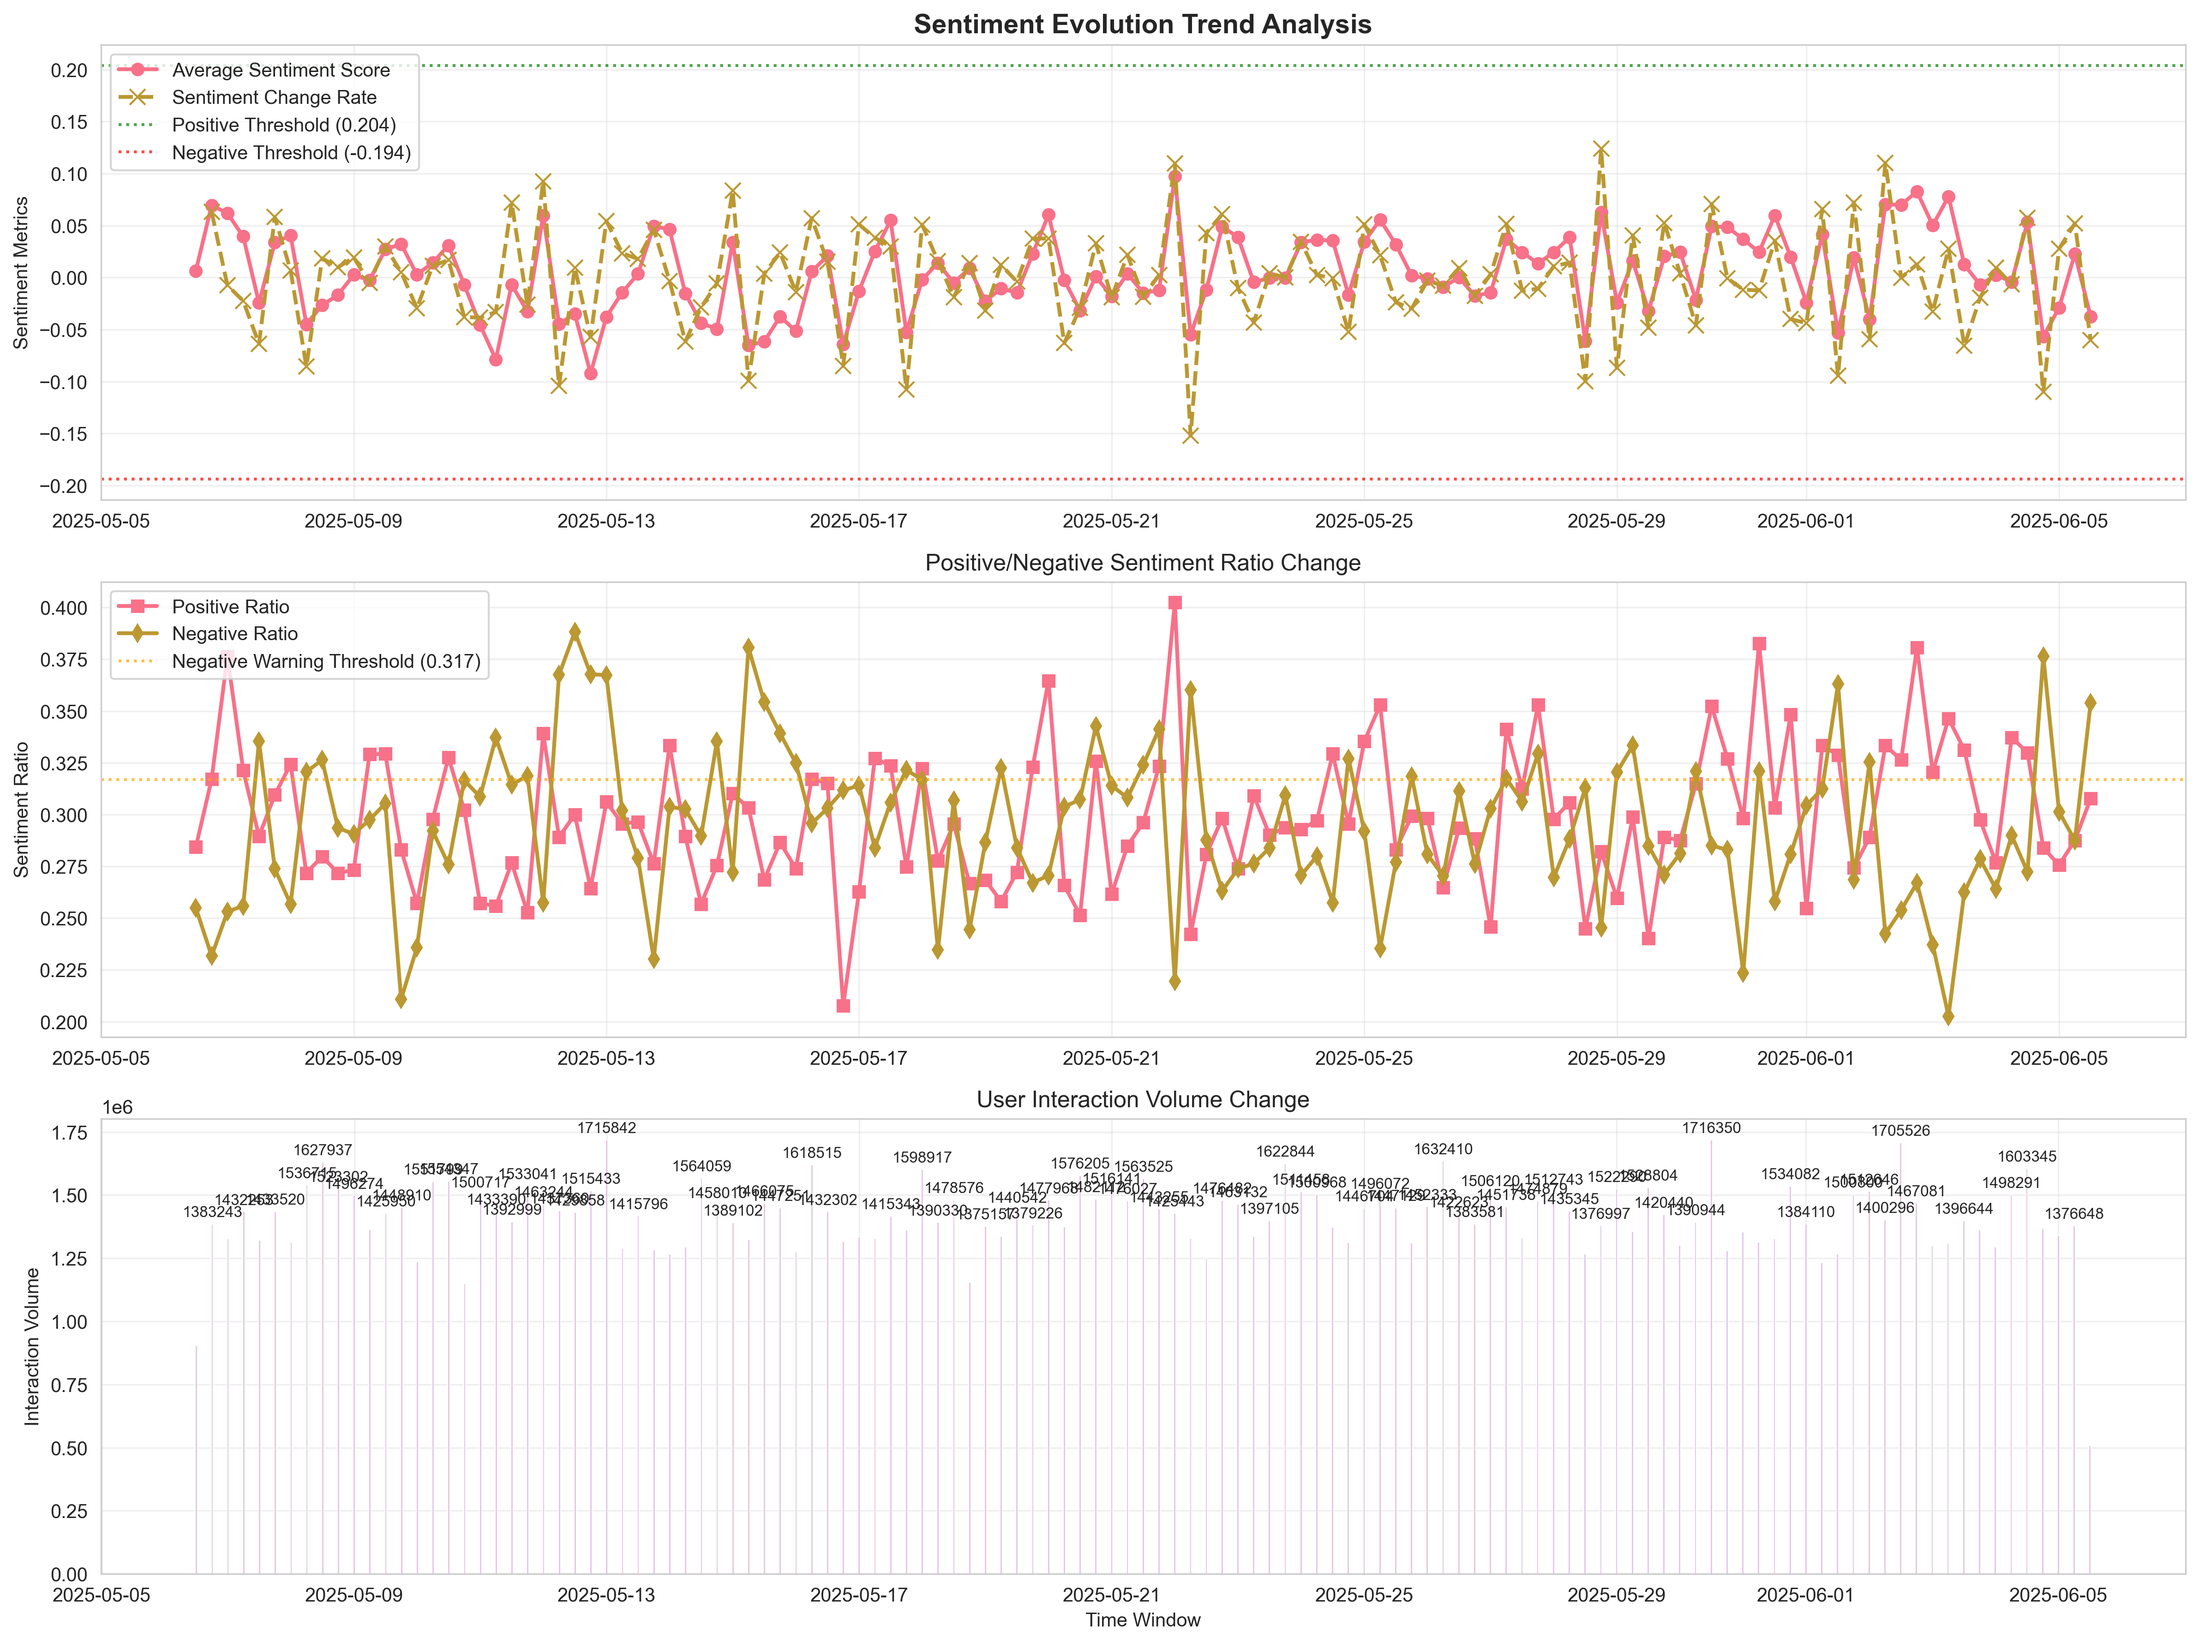
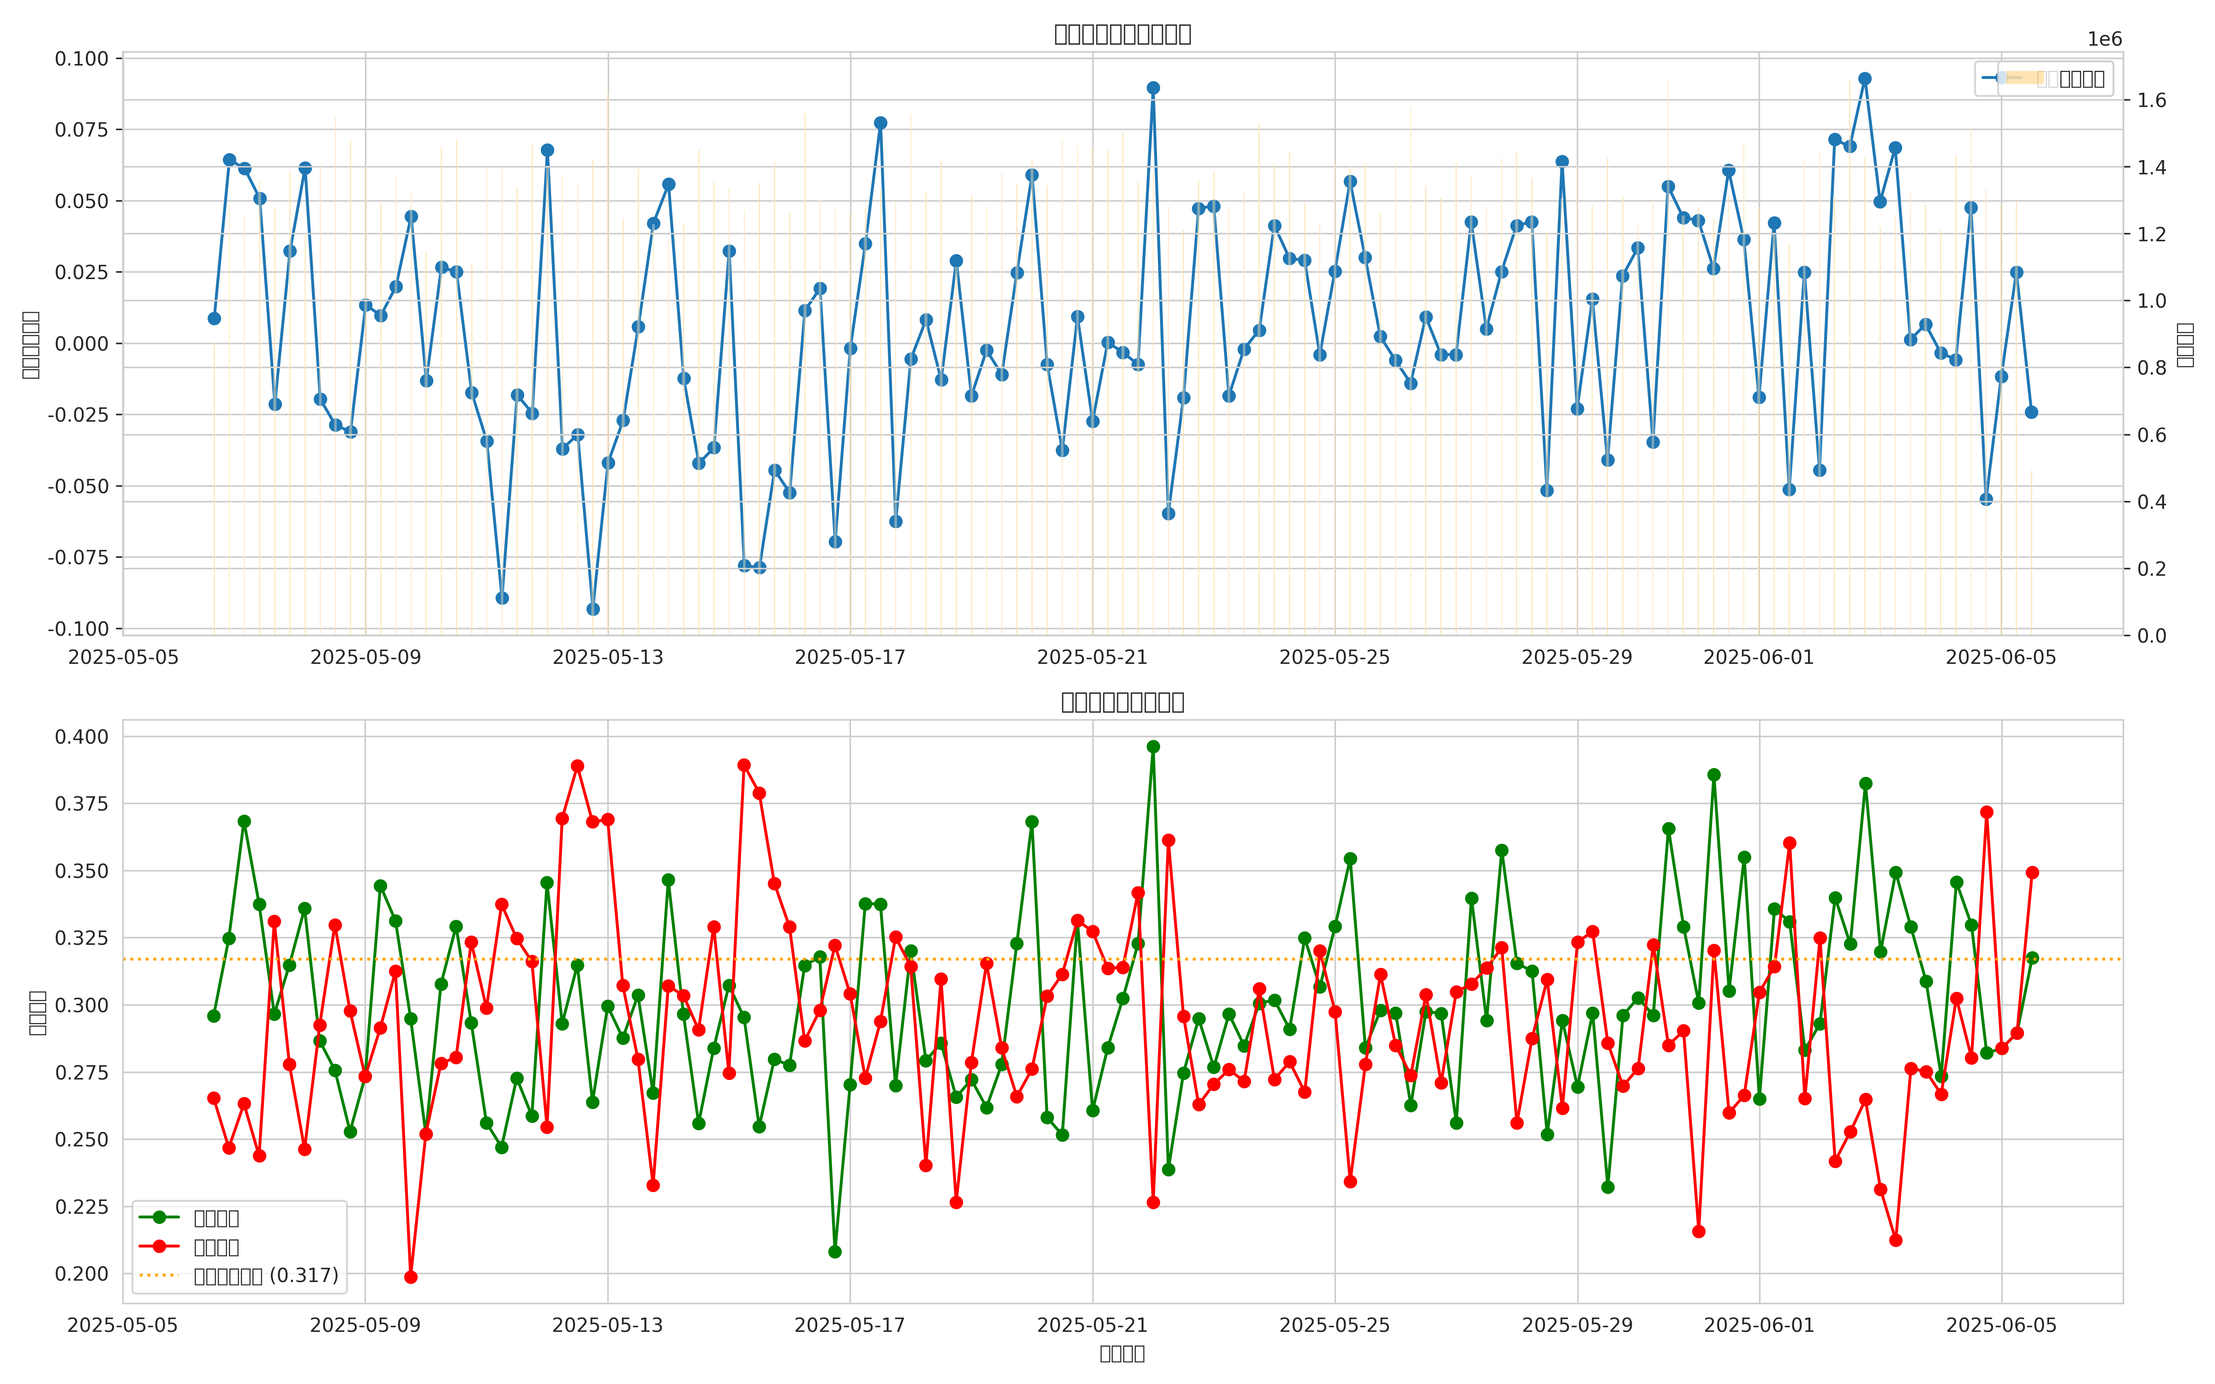
修改了字体相关

diff --git a/visualization.py b/visualization.py
@@ -1,84 +1,121 @@
 # visualization.py
 import matplotlib.pyplot as plt
 import seaborn as sns
+import numpy as np
+import pandas as pd
 import os
 from config import config
 
-# 设置绘图风格
-plt.rcParams['font.sans-serif'] = ['SimHei'] # 用来正常显示中文标签
-plt.rcParams['axes.unicode_minus'] = False # 用来正常显示负号
+# 设置绘图风格，适配中文
+# 优先使用在Ubuntu上常见的开源中文字体，然后逐步回退
+# 请根据您fc-list的输出结果，选择您系统上确实存在的字体名称
+plt.rcParams['font.sans-serif'] = [
+    'WenQuanYi Micro Hei',  # 文泉驿微米黑 (常用且推荐)
+    'WenQuanYi Zen Hei',    # 文泉驿正黑 (常用且推荐)
+    'Noto Sans CJK SC',     # 思源黑体 简体中文 (高质量推荐)
+    'DejaVu Sans',          # Matplotlib默认的英文字体，作为非中文部分的备用
+    'sans-serif'            # 通用无衬线字体家族，作为最终备用
+]
+plt.rcParams['axes.unicode_minus'] = False # 用来正常显示负号 (处理负号乱码)
 sns.set_style("whitegrid")
+sns.set_palette("husl")
 
 def ensure_output_dir():
+    """Ensure the output directory exists"""
     if not os.path.exists(config.OUTPUT_DIR):
         os.makedirs(config.OUTPUT_DIR)
 
 def plot_sentiment_trends(time_features):
+    """绘制情感趋势图 (您提供的版本)"""
     ensure_output_dir()
-    plt.figure(figsize=(16, 10))
-    # ... (此部分与您原代码一致，此处省略以节约篇幅)
-    plt.subplot(2, 1, 1)
-    plt.plot(time_features['time_window'], time_features['avg_sentiment'], 'o-', label='平均情感得分')
-    plt.title('情感得分与互动量趋势')
-    plt.ylabel('平均情感得分')
+    plt.figure(figsize=(16, 12))
+    
+    plt.subplot(3, 1, 1)
+    plt.plot(time_features['time_window'], time_features['avg_sentiment'], 'o-', 
+             label='平均情感得分', linewidth=2, markersize=6)
+    plt.plot(time_features['time_window'], time_features['sentiment_change'], 'x--', 
+             label='情感变化率', linewidth=2, markersize=8)
+    plt.axhline(y=config.POSITIVE_THRESHOLD, color='green', linestyle=':', alpha=0.7, 
+                label=f'正面阈值 ({config.POSITIVE_THRESHOLD})')
+    plt.axhline(y=config.NEGATIVE_THRESHOLD, color='red', linestyle=':', alpha=0.7, 
+                label=f'负面阈值 ({config.NEGATIVE_THRESHOLD})')
+    plt.ylabel('情感指标')
+    plt.title('情感演化趋势分析', fontsize=14, fontweight='bold')
     plt.legend()
+    plt.grid(True, alpha=0.3)
     
-    ax2 = plt.gca().twinx()
-    ax2.bar(time_features['time_window'], time_features['total_interaction'], alpha=0.3, color='orange', width=0.02, label='总互动量')
-    ax2.set_ylabel('总互动量')
-    ax2.legend(loc='upper right')
-    
-    plt.subplot(2, 1, 2)
-    plt.plot(time_features['time_window'], time_features['positive_ratio'], 'g-o', label='正面比例')
-    plt.plot(time_features['time_window'], time_features['negative_ratio'], 'r-o', label='负面比例')
-    plt.axhline(y=config.NEGATIVE_RATIO_THRESHOLD, color='orange', linestyle=':', label=f'负面预警阈值 ({config.NEGATIVE_RATIO_THRESHOLD})')
-    plt.title('正负面情感比例变化')
-    plt.xlabel('时间窗口')
+    plt.subplot(3, 1, 2)
+    plt.plot(time_features['time_window'], time_features['positive_ratio'], 's-', 
+             label='正面比例', linewidth=2, markersize=6)
+    plt.plot(time_features['time_window'], time_features['negative_ratio'], 'd-', 
+             label='负面比例', linewidth=2, markersize=6)
+    plt.axhline(y=config.NEGATIVE_RATIO_THRESHOLD, color='orange', linestyle=':', 
+                alpha=0.7, label=f'负面预警阈值 ({config.NEGATIVE_RATIO_THRESHOLD})')
     plt.ylabel('情感比例')
+    plt.title('正/负面情感比例变化', fontsize=12)
     plt.legend()
-
+    plt.grid(True, alpha=0.3)
+    
+    plt.subplot(3, 1, 3)
+    bars = plt.bar(time_features['time_window'], time_features['total_interaction'], 
+                   width=0.02, color='purple', alpha=0.7, label='总互动量')
+    plt.xlabel('时间窗口')
+    plt.ylabel('互动量')
+    plt.title('用户互动量变化', fontsize=12)
+    plt.legend()
+    plt.grid(True, alpha=0.3)
+    
+    heights = [bar.get_height() for bar in bars]
+    if heights:
+        max_height = max(heights)
+        for i, bar in enumerate(bars):
+            # 确保文本标签显示在bar上方，并根据bar高度调整偏移
+            plt.text(bar.get_x() + bar.get_width()/2., bar.get_height() + max_height*0.01,
+                    f'{int(bar.get_height())}', ha='center', va='bottom', fontsize=8)
+    
     plt.tight_layout()
-    plt.savefig(f"{config.OUTPUT_DIR}/sentiment_trends.png", dpi=300)
+    plt.savefig(f"{config.OUTPUT_DIR}/sentiment_trends.png", dpi=300, bbox_inches='tight')
     plt.close()
     print("✓ 情感趋势图已保存。")
 
 def plot_model_validation_comparison(time_features, pred_original, pred_improved, train_size):
-    """【新】绘制原始模型与改进模型的预测结果对比图"""
+    """【整合修改】绘制原始模型与改进模型的预测结果对比图"""
     ensure_output_dir()
     plt.figure(figsize=(18, 12))
     
-    # --- 正面情感比例对比 ---
+    # 正面比例预测对比
     plt.subplot(2, 1, 1)
     plt.plot(time_features['time_window'], time_features['positive_ratio'], 'o-', 
-             label='真实值 (正面)', color='green', linewidth=2, markersize=5, alpha=0.7)
+             label='真实值 (正面)', color='green', linewidth=2, markersize=5, alpha=0.8)
     plt.plot(time_features['time_window'], pred_original[1], '--', 
-             label='原始模型预测', color='gray', linewidth=2)
+             label='原始模型预测', color='gray', linewidth=2, alpha=0.8)
     plt.plot(time_features['time_window'], pred_improved[1], '-', 
-             label='改进模型预测', color='darkgreen', linewidth=2.5, alpha=0.9)
+             label='改进模型预测', color='darkgreen', linewidth=2.5)
     plt.axvline(x=time_features['time_window'].iloc[train_size], 
                 color='r', linestyle='--', linewidth=2, alpha=0.8, label='训练/测试集分割')
     plt.ylabel('正面情感比例')
     plt.title('模型预测对比 - 正面情感', fontsize=16, fontweight='bold')
-    plt.legend()
+    plt.legend(loc='best')
     plt.grid(True, linestyle='--', alpha=0.5)
     
-    # --- 负面情感比例对比 ---
+    # 负面比例预测对比
     plt.subplot(2, 1, 2)
     plt.plot(time_features['time_window'], time_features['negative_ratio'], 'o-', 
-             label='真实值 (负面)', color='red', linewidth=2, markersize=5, alpha=0.7)
+             label='真实值 (负面)', color='red', linewidth=2, markersize=5, alpha=0.8)
     plt.plot(time_features['time_window'], pred_original[2], '--', 
-             label='原始模型预测', color='gray', linewidth=2)
+             label='原始模型预测', color='gray', linewidth=2, alpha=0.8)
     plt.plot(time_features['time_window'], pred_improved[2], '-', 
-             label='改进模型预测', color='darkred', linewidth=2.5, alpha=0.9)
+             label='改进模型预测', color='darkred', linewidth=2.5)
     plt.axvline(x=time_features['time_window'].iloc[train_size], 
                 color='r', linestyle='--', linewidth=2, alpha=0.8, label='训练/测试集分割')
     plt.xlabel('时间窗口')
     plt.ylabel('负面情感比例')
     plt.title('模型预测对比 - 负面情感', fontsize=14)
-    plt.legend()
+    plt.legend(loc='best')
     plt.grid(True, linestyle='--', alpha=0.5)
     
     plt.tight_layout()
-    plt.savefig(f"{config.OUTPUT_DIR}/model_validation_comparison.png", dpi=300)
+    plt.savefig(f"{config.OUTPUT_DIR}/model_validation_comparison.png", dpi=300, bbox_inches='tight')
     plt.close()
     print("✓ 模型预测对比图已保存。")
+

diff --git a/main.py b/main.py
@@ -8,13 +8,12 @@ from data_loader import load_and_preprocess_data
 from feature_engineer import create_time_features, create_warning_features
 from dynamics_model import fit_dynamics_model, fit_dynamics_model_improved, predict_full_model
 from warning_system import train_warning_model
-from visualization import plot_sentiment_trends, plot_model_validation_comparison
+from visualization import plot_sentiment_trends, plot_model_validation_comparison # 使用新函数
 
 def main():
     print("====== 网络舆情情感演化分析系统 (动态参数改进版) ======")
     
-    if not os.path.exists(config.OUTPUT_DIR):
-        os.makedirs(config.OUTPUT_DIR)
+    ensure_output_dir()
 
     # 1. 数据加载与预处理
     raw_df = load_and_preprocess_data()
@@ -60,14 +59,18 @@ def main():
     y_train, y_test = y.iloc[:split_idx], y.iloc[split_idx:-1]
     
     # 训练并评估预警模型
-    if not X_train.empty and not y_train.empty:
+    if not X_train.empty and not y_train.empty and not X_test.empty and not y_test.empty:
         warning_model = train_warning_model(X_train, y_train, X_test, y_test)
         joblib.dump(warning_model, f"{config.OUTPUT_DIR}/warning_model.pkl")
         print("✓ 预警模型已保存。")
     else:
-        print("警告：用于预警模型的训练数据为空，跳过训练。")
+        print("警告：用于预警模型的训练或测试数据为空，跳过训练。")
 
     print(f"\n分析完成! 所有结果已保存在 '{config.OUTPUT_DIR}/' 目录中。")
+
+def ensure_output_dir():
+    if not os.path.exists(config.OUTPUT_DIR):
+        os.makedirs(config.OUTPUT_DIR)
 
 if __name__ == "__main__":
     main()
